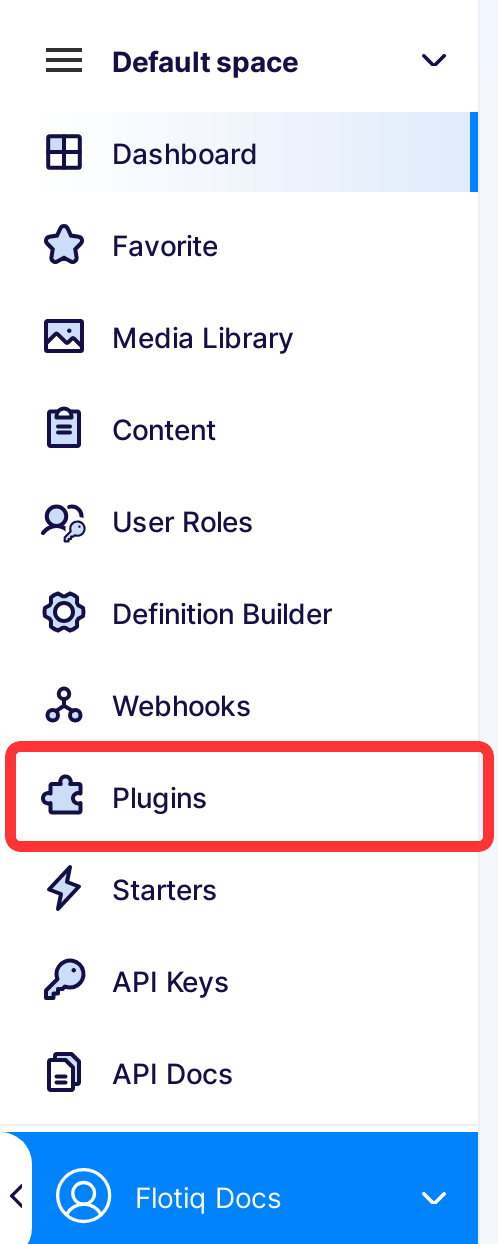
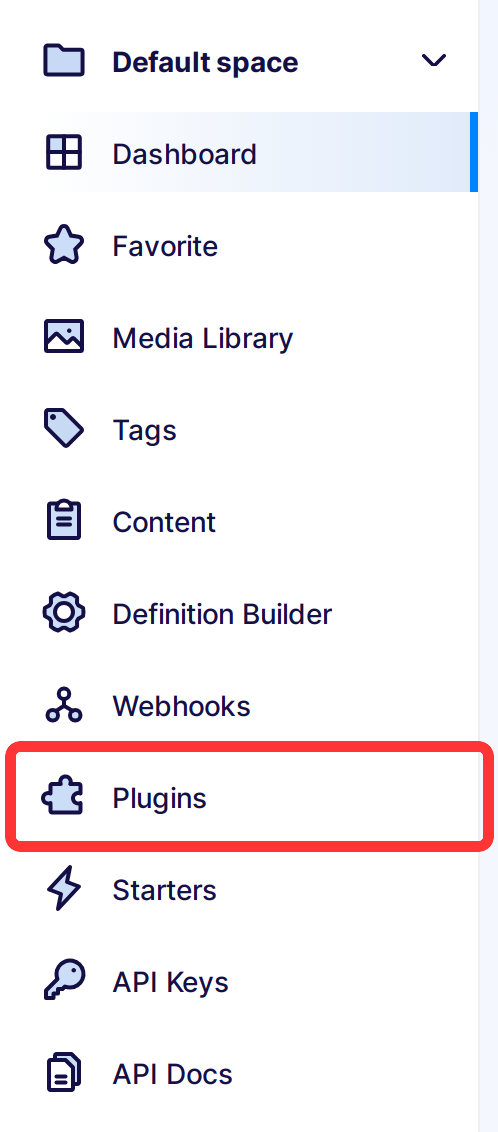
ref #21369 add media tags management info

diff --git a/docs/panel/media-library.md b/docs/panel/media-library.md
@@ -53,6 +53,30 @@ After you are done with modifying the image, press `Save changes` button and a v
 !!! Note
     Flotiq variants currently do not support creating transformations for animated GIF files.
 
+## Media tags
+
+You can add tags to your media files to help categorize and find them.
+
+To add tag to the file, use the `add tags` button on the media listing:
+
+![Add tags](./images/AddTags.png){: .border .width50 .center}
+
+It will open a modal where you can choose existing tags or create new ones.
+
+![Add tags modal](./images/AddTagsModal.png){: .border .width50 .center}
+
+When you finish editing, click the `Save` button.
+
+You can manage your tags on the Tags page:
+
+![Listing tags](./images/ListingTags.png){: .border .width50 .center}
+
+The tag contains only name field.
+
+Tag editing is compatible with standard content object editing. See more in the [editing content object description](/docs/panel/content-objects/).
+
+Mass edit is not enabled for tags, as it has only unique fields.
+
 ## API Endpoints
 
 Media library is accessible via `/api/v1/media/` endpoints. Visit your API docs to learn more.
